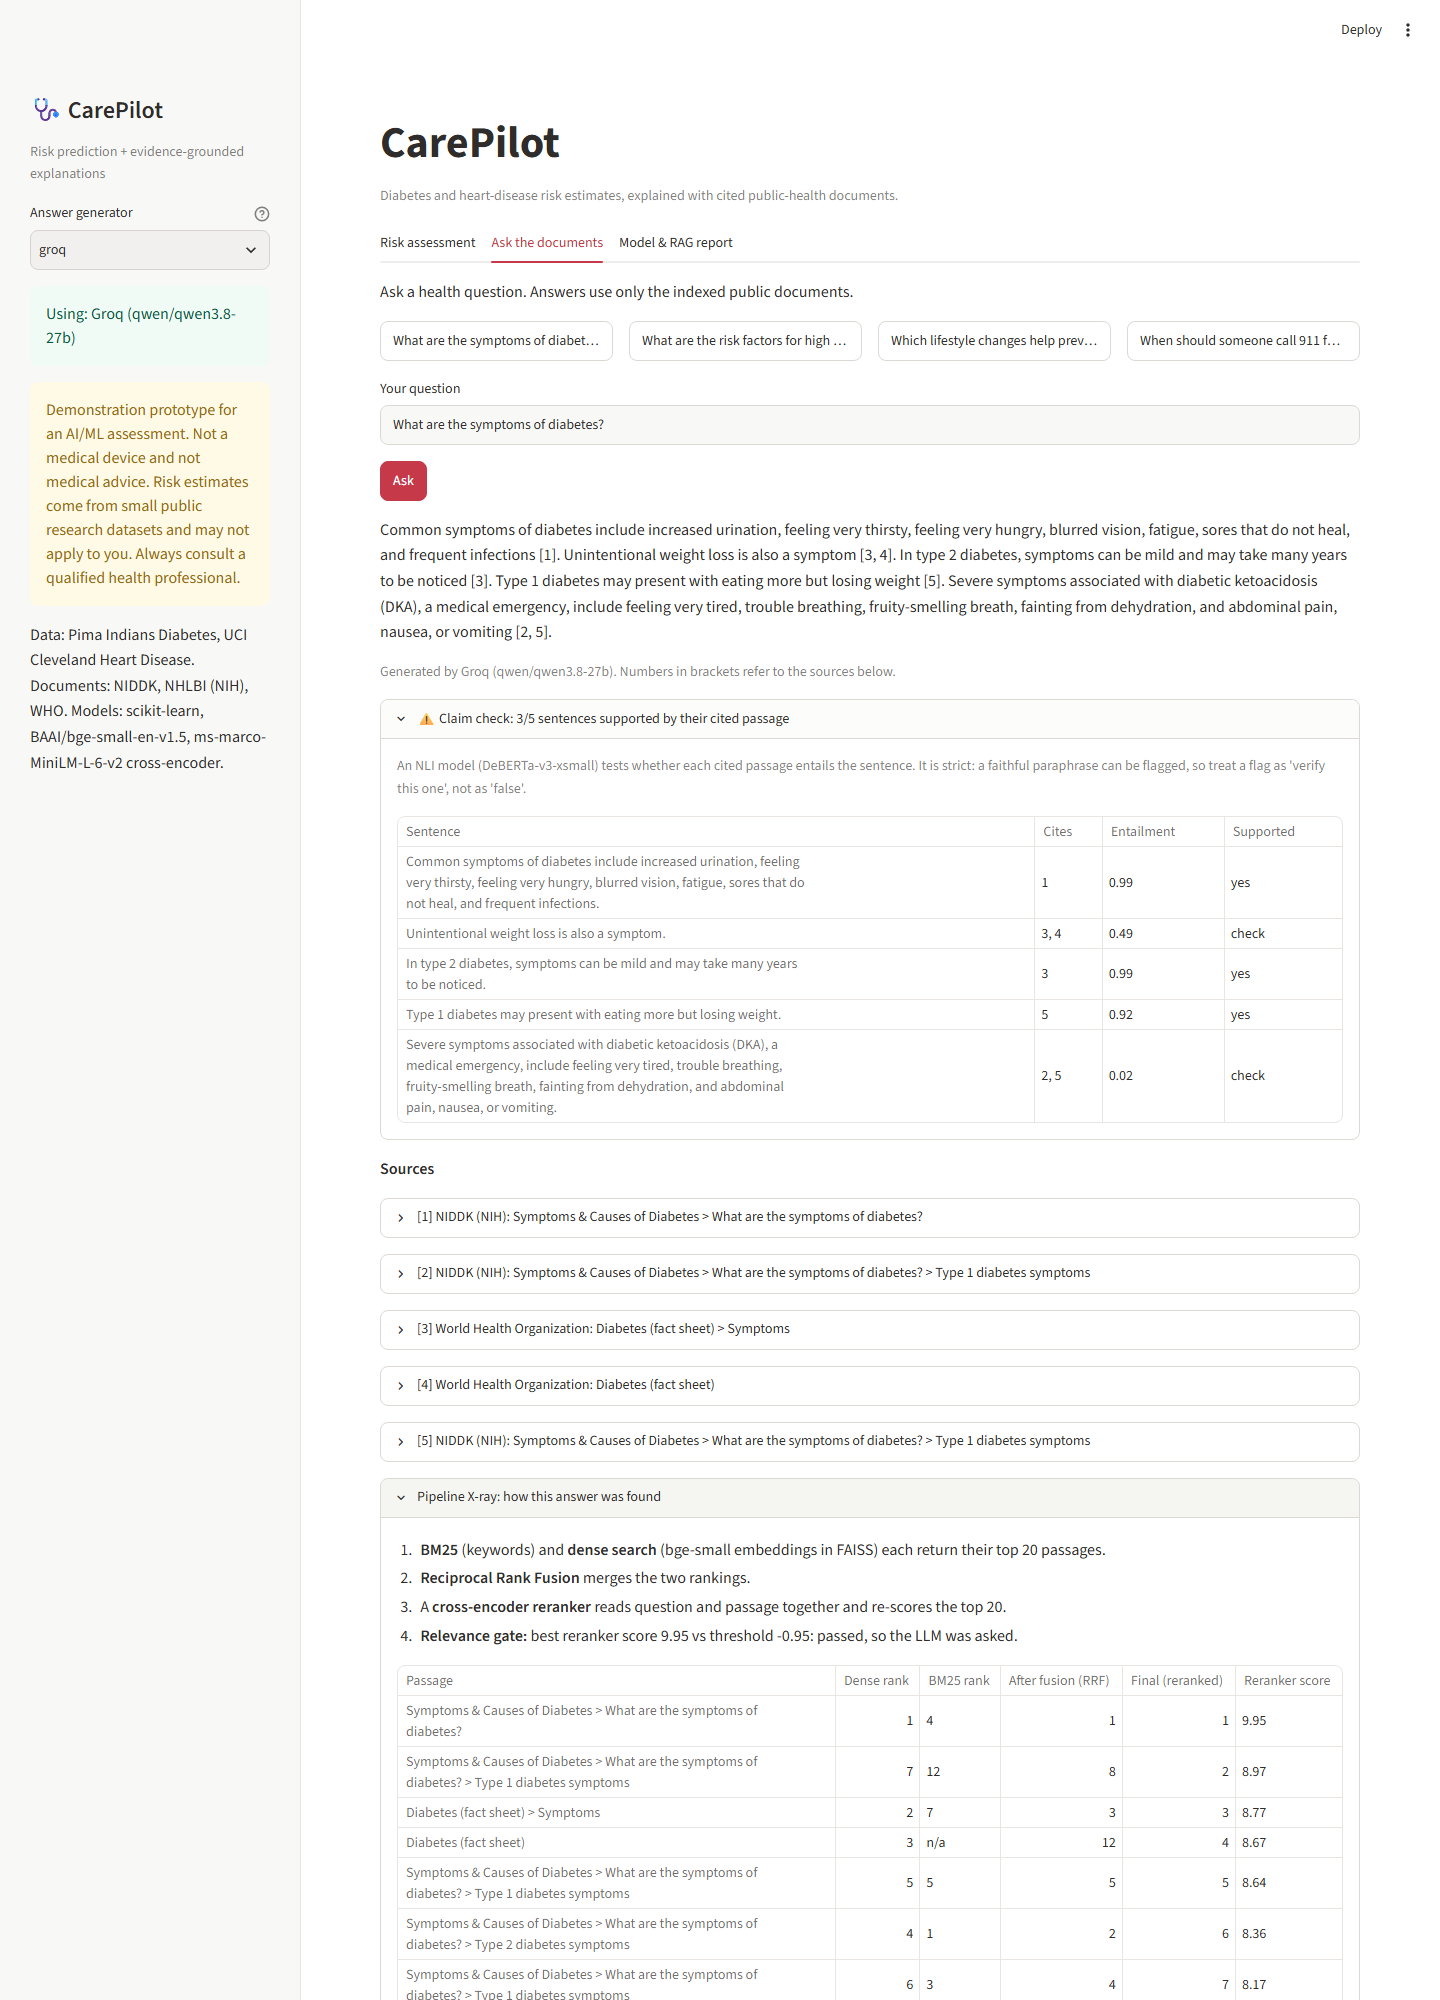
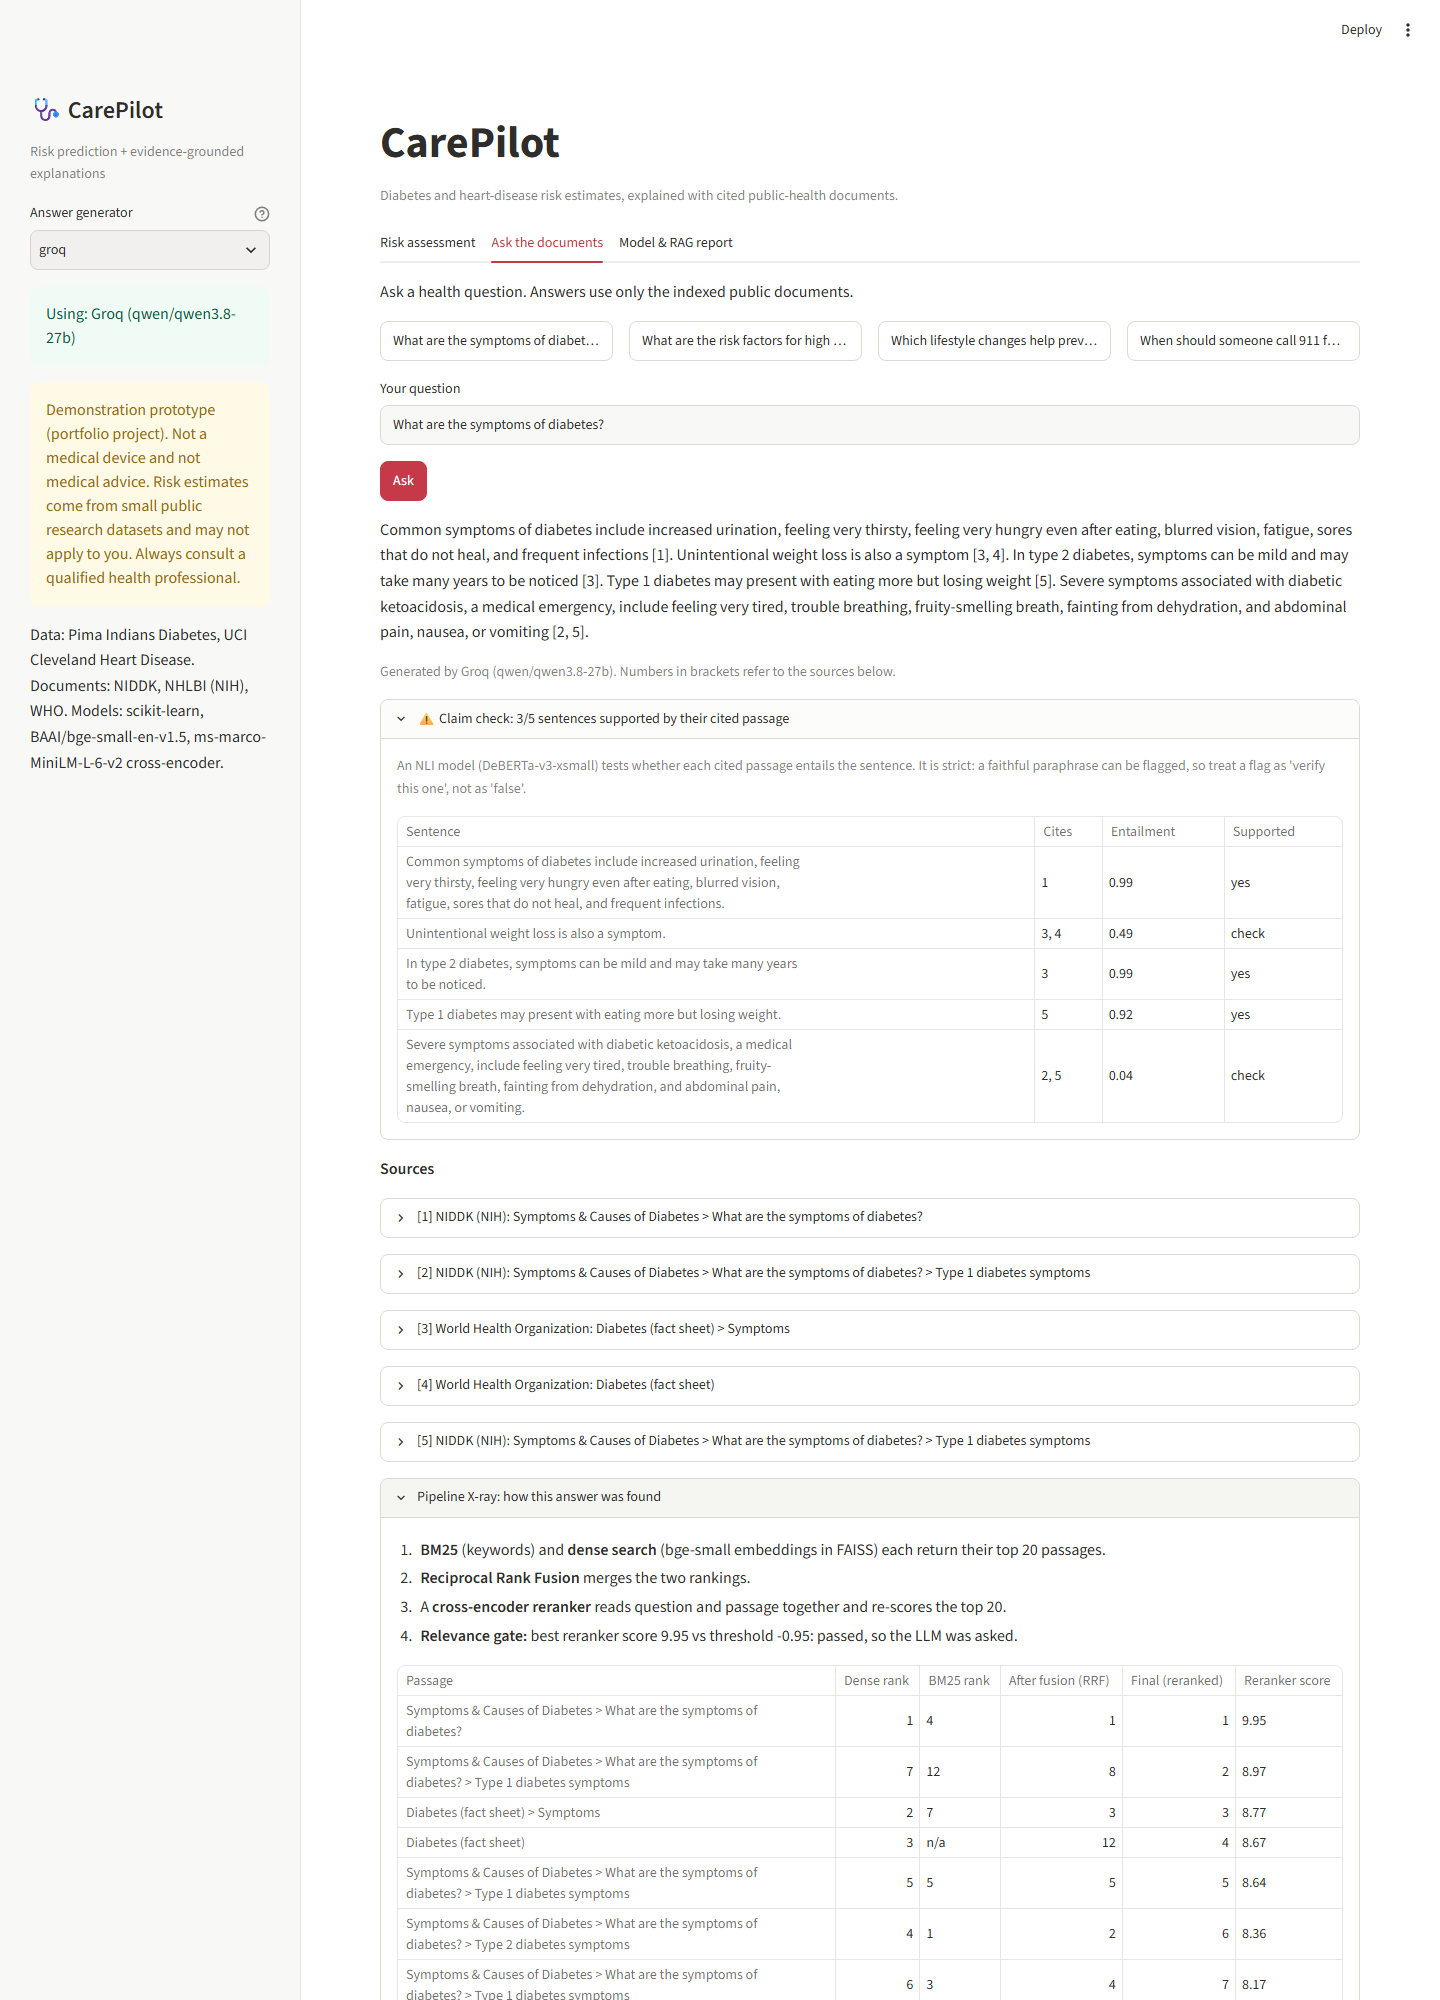
docs: present as portfolio project; neutral headings and disclaimer

Changed region(s): [[0.25, 0.248, 0.9375, 0.341], [0.2812, 0.527, 0.5312, 0.558], [0.3438, 0.434, 0.5312, 0.465]]

diff --git a/src/carepilot/core/safety.py b/src/carepilot/core/safety.py
@@ -12,7 +12,7 @@ import re
 from dataclasses import dataclass
 
 DISCLAIMER = (
-    "Demonstration prototype for an AI/ML assessment. Not a medical device and not medical "
+    "Demonstration prototype (portfolio project). Not a medical device and not medical "
     "advice. Risk estimates come from small public research datasets and may not apply to you. "
     "Always consult a qualified health professional."
 )

diff --git a/README.md b/README.md
@@ -8,7 +8,7 @@
 
 ---
 
-## TL;DR for reviewers
+## TL;DR
 
 | What most prototypes do | What this one does |
 |---|---|
@@ -26,21 +26,21 @@
 | Needs an OpenAI key | Runs with **zero keys**. Pluggable providers: Groq (multi-key failover on rate limits), local Ollama (patient data stays on the machine), or an extractive no-LLM mode. Answers stream live, then get replaced by the validated version |
 | Notebook | 94% test coverage across 115 unit and integration tests, 10 Playwright E2E journeys, GitHub Actions CI, and a Dockerfile |
 
-## Assessment checklist
+## Feature map
 
-| Requirement | Where |
+| Capability | Where |
 |---|---|
 | Public healthcare tabular dataset | Pima Indians Diabetes + UCI Cleveland Heart Disease: [`src/carepilot/data/download.py`](src/carepilot/data/download.py), links below |
 | Clean, preprocess, handle missing values, train/test split | [`ml/datasets.py`](src/carepilot/ml/datasets.py), [`ml/train.py`](src/carepilot/ml/train.py) |
 | At least two classification models | Logistic Regression, Random Forest, XGBoost (×2 diseases) |
 | Accuracy, precision, recall, F1, ROC-AUC | [`reports/ml_report.md`](reports/ml_report.md) (+ Brier, CIs, ROC / calibration / confusion plots) |
-| Which model is best and why | [ML results](#part-1-machine-learning) below |
+| Which model is best and why | [ML results](#machine-learning) below |
 | Saved model + prediction function | `models/<disease>/model.joblib`, `predict_risk()` in [`ml/predict.py`](src/carepilot/ml/predict.py) |
 | 5-10 public healthcare documents | 10 NIH / WHO pages: [`rag/ingest.py`](src/carepilot/rag/ingest.py) |
 | Load, clean, chunk, embed | [`rag/ingest.py`](src/carepilot/rag/ingest.py), [`rag/chunking.py`](src/carepilot/rag/chunking.py), [`rag/index.py`](src/carepilot/rag/index.py) |
 | FAISS / ChromaDB | FAISS `IndexFlatIP`: `index/faiss.index` |
 | Retrieve, generate with an LLM, show sources, say when unavailable | [`rag/retrieve.py`](src/carepilot/rag/retrieve.py), [`rag/answer.py`](src/carepilot/rag/answer.py) |
-| Interface (optional) | Streamlit app: [`app/streamlit_app.py`](app/streamlit_app.py), screenshots in [`docs/screenshots`](docs/screenshots) |
+| Interface | Streamlit app: [`app/streamlit_app.py`](app/streamlit_app.py), screenshots in [`docs/screenshots`](docs/screenshots) |
 | Training + indexing code, metrics, limitations | This README, [`reports/`](reports) |
 
 ## Architecture
@@ -104,7 +104,7 @@ Tests: `uv run pytest` (unit + integration), `uv run pytest -m e2e` (Playwright;
 
 ---
 
-## Part 1: Machine learning
+## Machine learning
 
 ### Data
 
@@ -169,7 +169,7 @@ Input validation collects every problem at once, using plausible clinical ranges
 
 ---
 
-## Part 2: RAG system
+## RAG system
 
 ### Corpus (10 public documents)
 
@@ -220,7 +220,7 @@ How the three compare: the cloud 27B model covers every expected fact at 1.5 s. 
 
 ---
 
-## Part 3: Interface
+## Interface
 
 `uv run streamlit run app/streamlit_app.py` opens three tabs:
 
